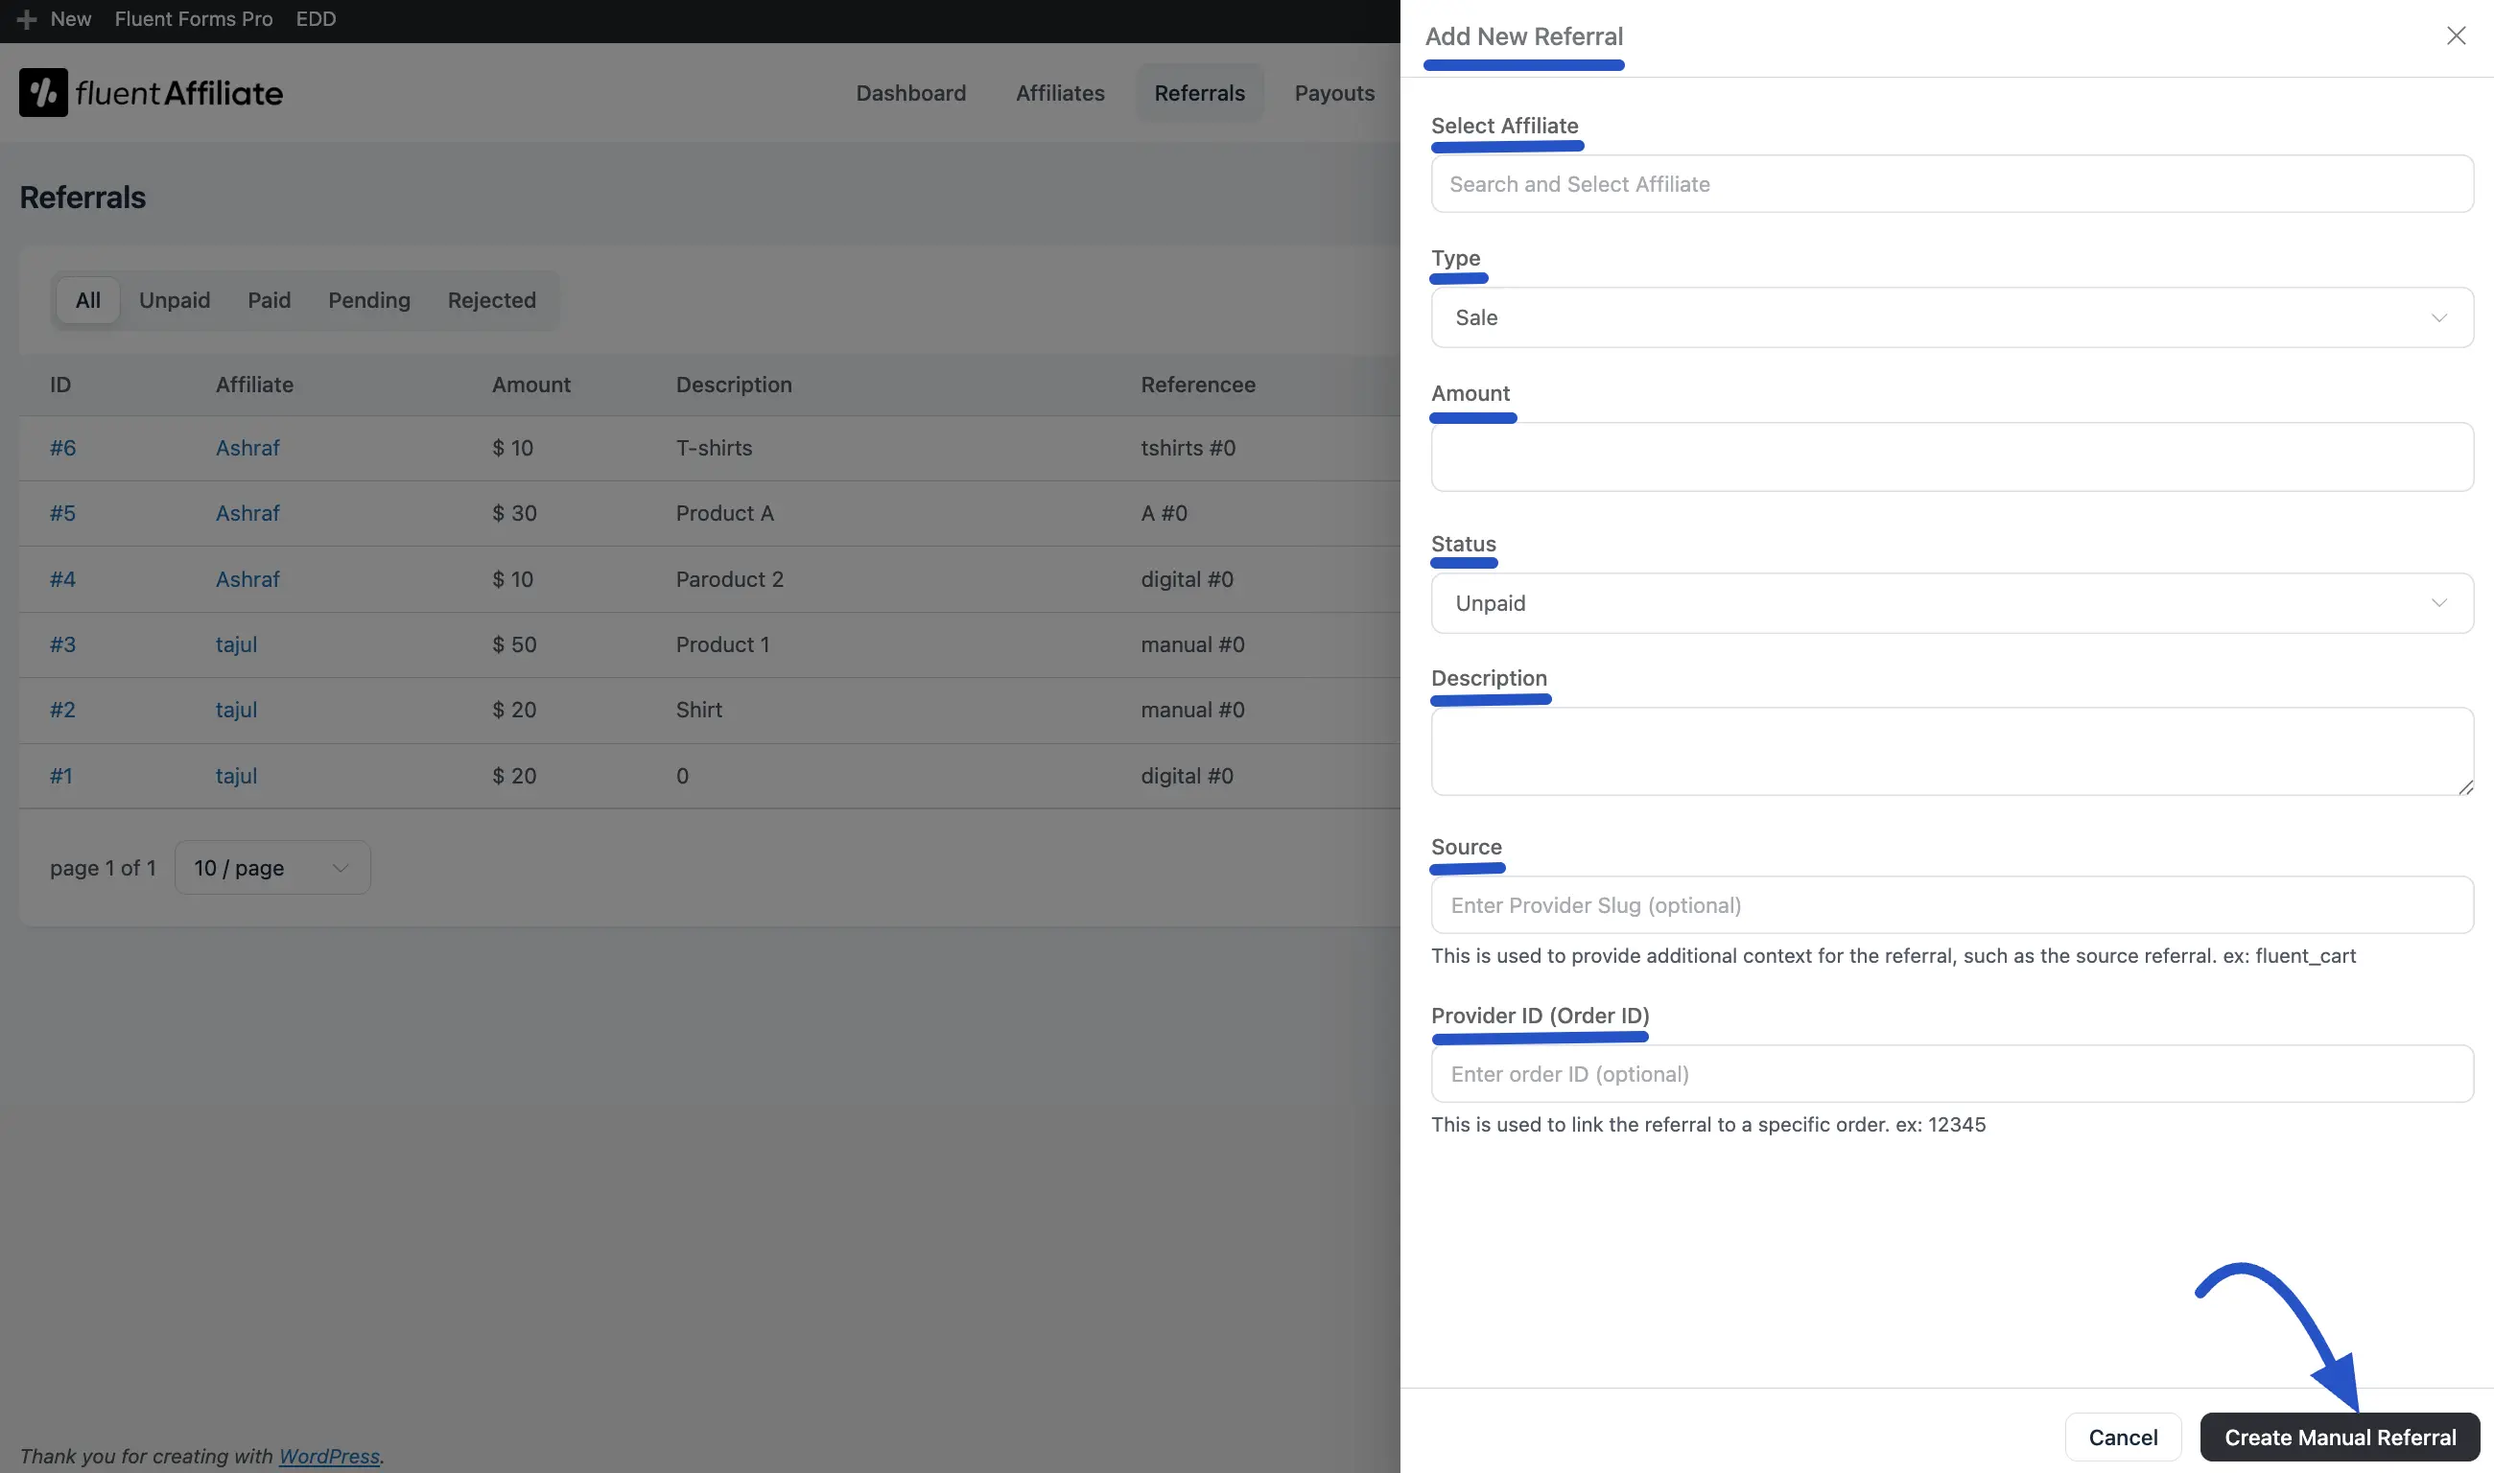
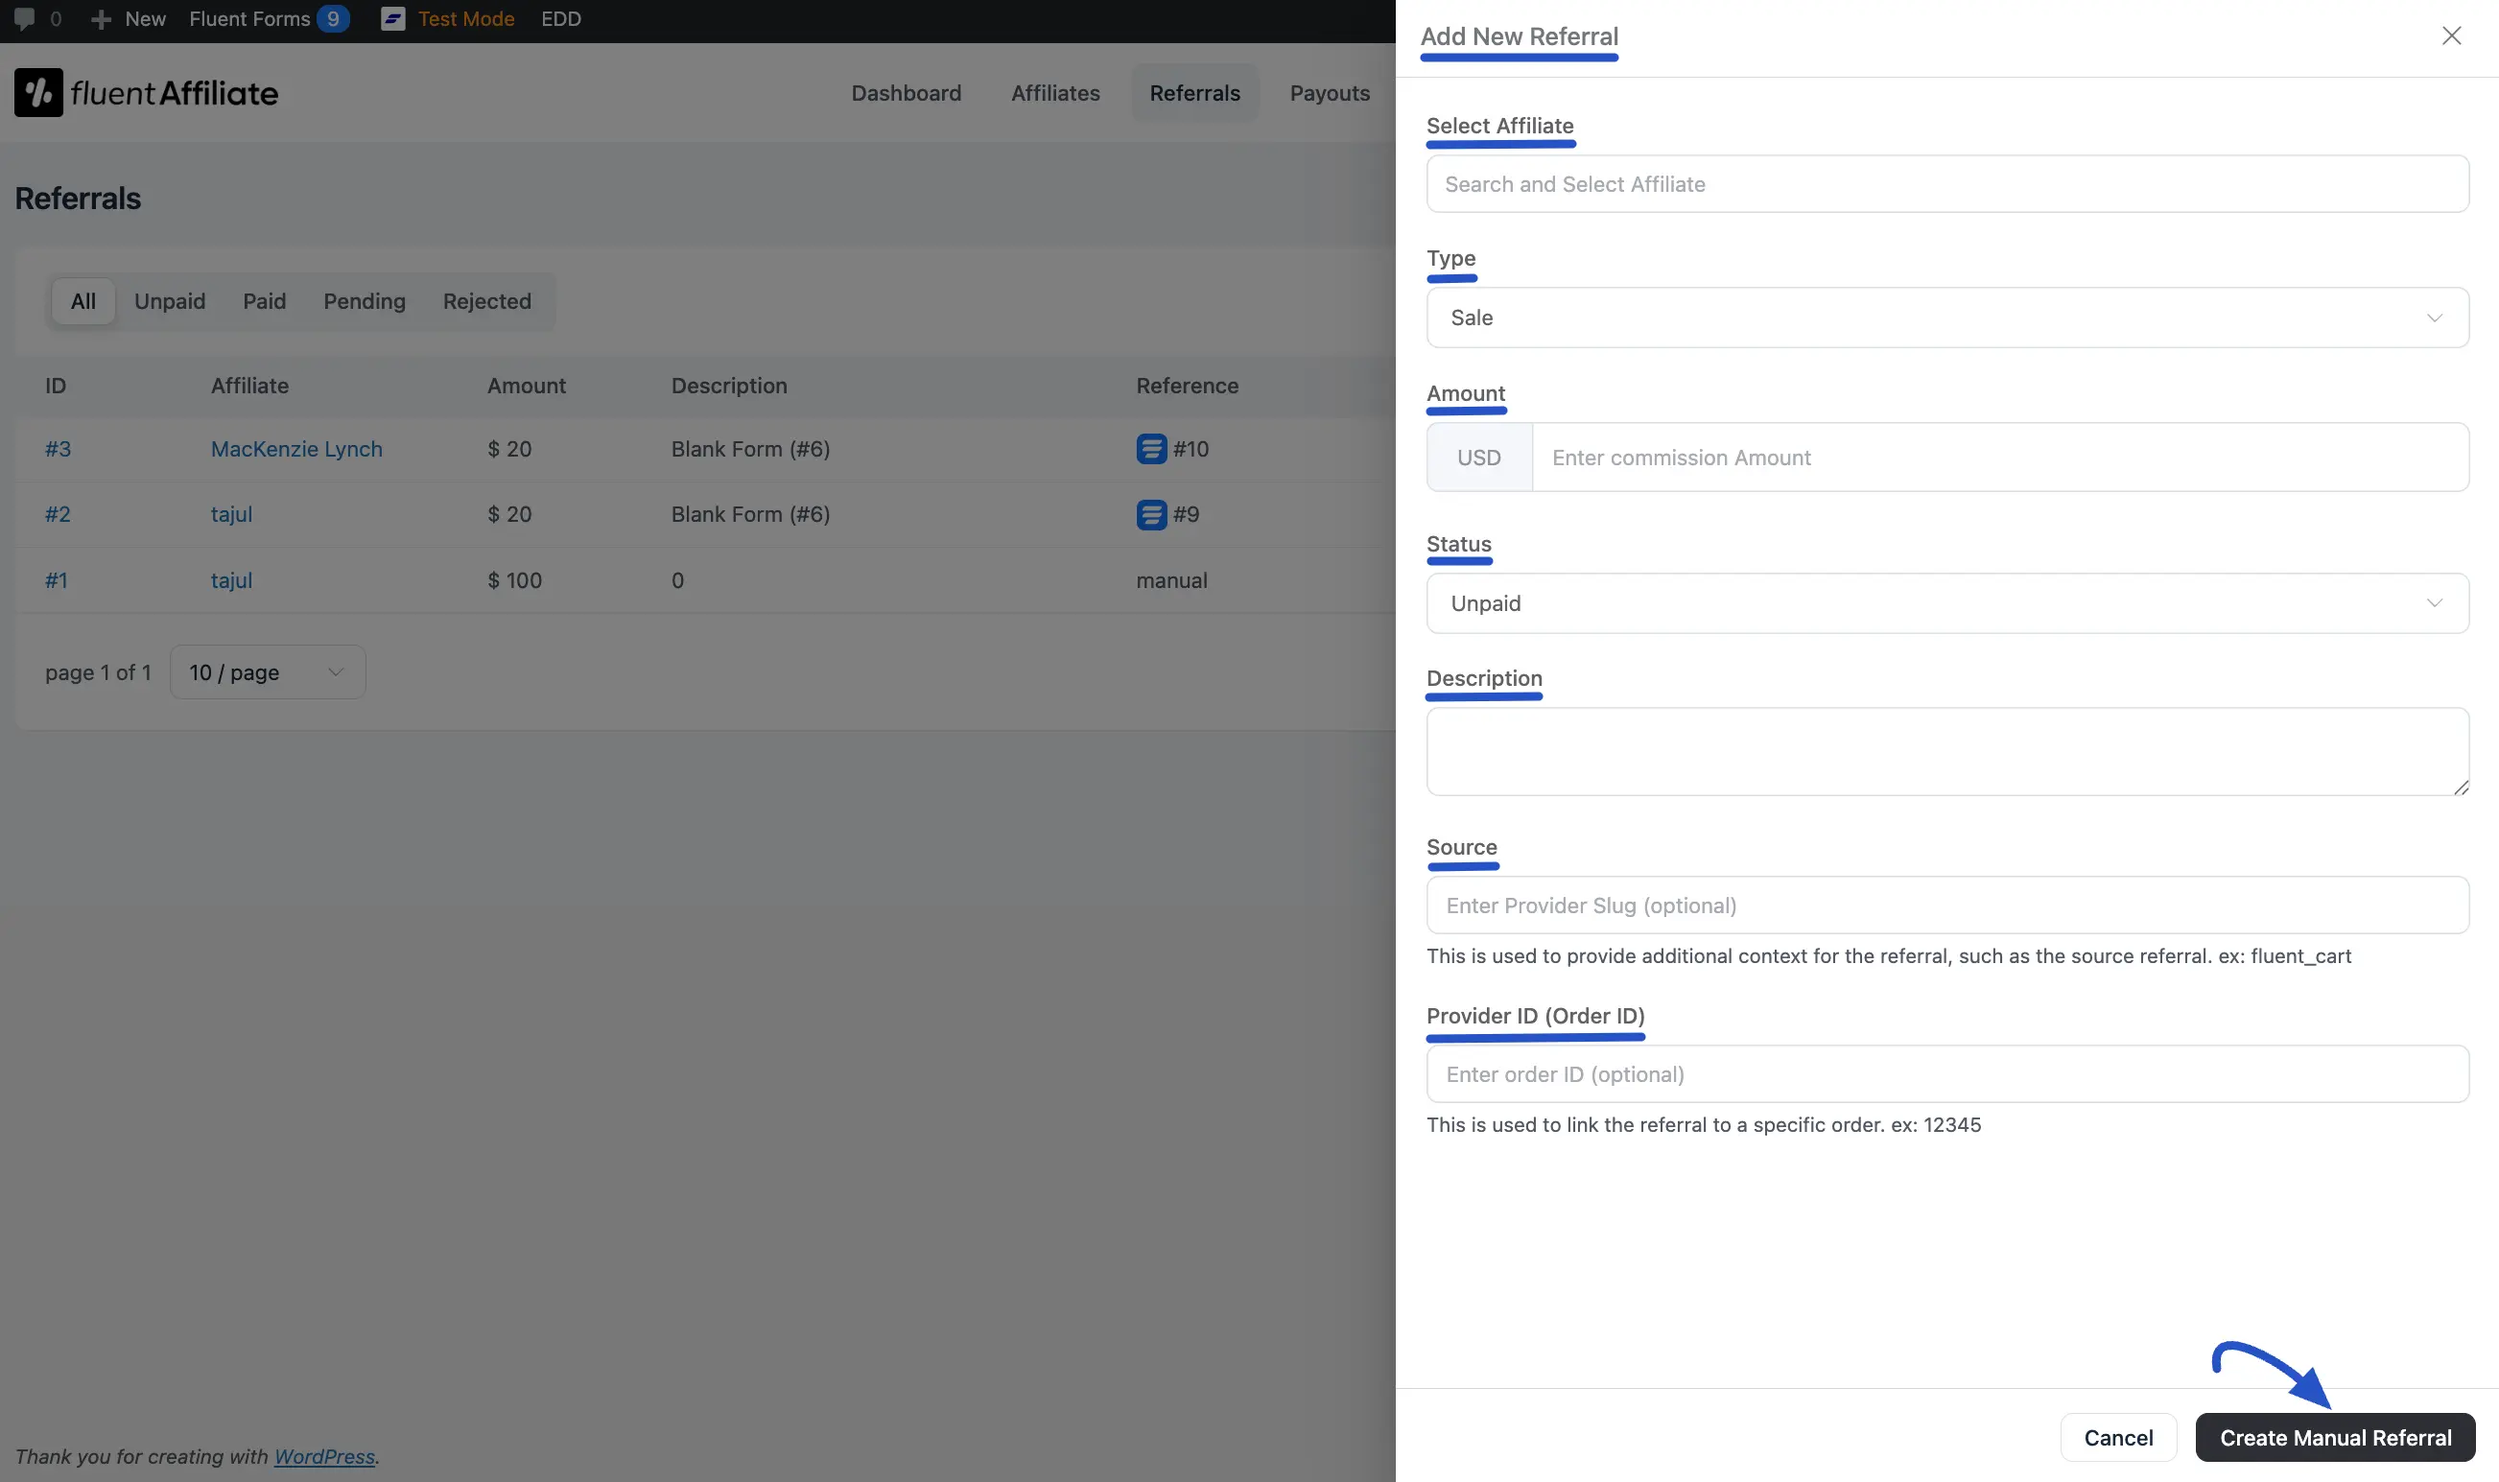
update FluentAffiliate v1.3.0 docs

diff --git a/guide/settings-and-customization/referral-settings.md b/guide/settings-and-customization/referral-settings.md
@@ -28,6 +28,9 @@ Configure how monetary values and numbers are displayed across the plugin.
 * **Currency:** Select the primary currency for your store's transactions and affiliate payouts. "United States Dollar" is the example shown.
 * **Number Format:** Choose the character style for separating thousands in numerical values. Options include US Style (1,000,00.00) and EU Style (1.000,00,00).
 * **Currency Symbol Position:** Choose whether the currency symbol appears Before ($10) or After (10$) the amount.
+* **Payout Method:** This setting allows you to choose how your affiliates will receive their earnings. You can select your preferred method from the dropdown menu:
+   * **PayPal:** A common method for sending automated or manual payments via email.
+   * **Bank Transfer:** If you select this option, affiliates will provide their bank details for payouts instead of an email address.
 
 ### Tracking & Credit Rules
 
@@ -48,9 +51,22 @@ This section allows you to configure page assignments, cost exclusions, and rule
 * **Exclude Shipping:** Enable this option to exclude shipping costs from the calculation of referral commissions.
 * **Exclude Tax:** Enable this to exclude tax amounts from the calculation of referral commissions.
 * **Disable Self Referral:** Enable this to prevent affiliates from earning commissions on their own purchases.
-* **Affiliate Commission on Subscription Renewal (Coming soon):** This is an upcoming feature that will enable you to credit the main affiliate on subscription renewals.
 
-![Cost and Tax Settings](/images/settings-and-customization/referral/cost-tax-settings.webp)
+![Cost and Tax Settings](/images/settings-and-customization/referral/recurring-commission-settings.webp)
+
+#### Affiliate Commission on Subscription Renewal
+
+This feature allows you to reward affiliates for recurring subscription payments. 
+
+>[!Note]
+>To use this feature, you need [FluentAffiliate Pro](/https://fluentaffiliate.com/discount-deal/). It is available for [FluentCart](/https://fluentcart.com/pricing/) users.
+
+ * **Enable Option:** Check the box to award affiliate commissions for subscription renewals.
+ * **Renewal Rate:** Set the specific commission rate (Flat or Percentage) for these recurring referrals.
+ * **Maximum Renewal Referrals:** Set the maximum number of times an affiliate can earn from a single subscription. Enter 0 for unlimited renewal commissions.
+
 
 After configuring all your settings, click the **Save Settings** button to apply the changes.
+
+![Subscription Renewal](/images/settings-and-customization/referral/comission-Renewal.webp)
 

diff --git a/guide/affiliate-portal/generating-affiliate-links.md b/guide/affiliate-portal/generating-affiliate-links.md
@@ -21,15 +21,19 @@ This is the main section for creating a referral link to a specific page on the 
 
 Your new, unique referral link will instantly appear below in the **Generated Affiliate Link** area. Click the **Copy** button to copy it to your clipboard.
 
-![Generated Referral Link](/images/affiliate-portal/generating-links/generated-affiliate-link.webp)
+![Generated Referral Link](/images/affiliate-portal/generating-links/generate-affiliate-link.webp)
 
-## Step 2: Your Affiliate Link
+## Step 2: Your Affiliate Link & QR Code
 
-This section at the bottom of the page always displays your main, default affiliate link.  This link typically points to the website's homepage and is perfect for general promotions when you aren't linking to a specific page.
+This section at the bottom of the page always displays your main, default affiliate link. 
 
-Simply click the **Copy** button to grab it quickly and start sharing.
+ * **Main Referral Link:** This is your default affiliate link. You can **copy** it quickly by clicking the copy icon next to the URL.
+ * **QR Code Sharing:** You can also use a custom QR code for your referral link. This is perfect for printed materials like business cards, posters, or sharing directly from your mobile device.
+ * **Download QR Code:** Click the **Download QR Code** button to save the image to your device, then share it with your audience.
 
 
-And that's it! You've successfully created a referral link.
+And that's it! You've successfully created a referral link and are ready to promote using both **URLs** and **QR codes**.
+
+
 
 

diff --git a/guide/admin-portal/managing-referrals.md b/guide/admin-portal/managing-referrals.md
@@ -68,7 +68,7 @@ After clicking the button, a form will slide in from the right side of your scre
 
 * **Select Affiliate:** Start typing the name of the affiliate you want to credit and select them from the list. This is the most important field.
 * **Type:** Choose the type of referral from the dropdown menu (e.g., Sale, Opt-in).
-* **Amount:** Enter the exact commission amount the affiliate will earn for this referral.
+* **Amount:** Enter the exact commission amount the affiliate will earn for this referral in the designated numerical field. The currency for this amount is displayed next to the input box.
 * **Status:** Set the initial status of the referral. You can choose from Unpaid, Paid, Pending, or Rejected.
 * **Description:** Add a short note or description for your own records, explaining why this referral was added manually (e.g., "Manual entry for phone order #5512").
 * **Source (Optional):** You can enter a source slug here to provide extra context about where the referral came from (e.g., manual_sale).
